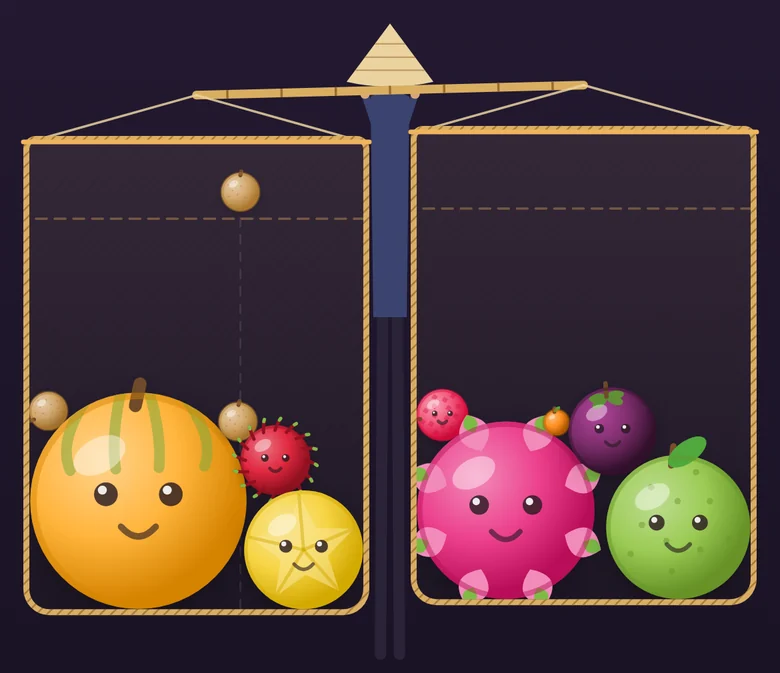
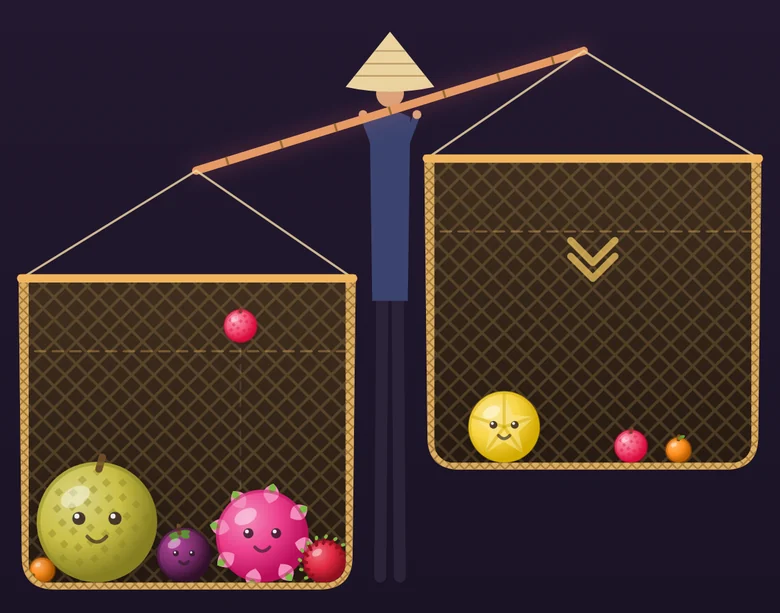
feat(site): show the 8-fruit chain and the woven-basket board
- Drop longan, guava and papaya from the chain and their images
- New board shot with the tipped pole and the visible carrier

diff --git a/src/pages/changelog.html b/src/pages/changelog.html
@@ -21,13 +21,13 @@
               <span class="pill">iPhone</span>
             </div>
             <h2>First release</h2>
-            <p>The first version of Fruit Mischief for the App Store: two baskets on a balancing pole, an 11-fruit tropical chain, and a blessing draft on top.</p>
+            <p>The first version of Fruit Mischief for the App Store: two baskets on a balancing pole, an 8-fruit tropical chain, and a blessing draft on top.</p>
 
             <h3><img src="assets/fruits/durian.png" alt="" width="28" height="28" /> The game</h3>
             <ul>
               <li>A street vendor carries two baskets on a bamboo shoulder pole. Every fruit goes into the left or the right basket, and only fruit in the same basket merge.</li>
               <li>The pole tips toward the heavier basket. Held past its limit for 2.5 seconds, the load spills and the run ends. While it tips, the pole glows red and arrows point at the lighter side.</li>
-              <li>An 11-tier chain of tropical fruit from kumquat to durian, all original art drawn in the game's code. The fruit worry when a basket fills up and grin when they merge.</li>
+              <li>An 8-tier chain of tropical fruit from kumquat to durian, all original art drawn in the game's code. The fruit worry when a basket fills up and grin when they merge.</li>
               <li>Two durians in one basket burst for a 200-point bonus and a bonus blessing pick.</li>
               <li>Combos: merges less than 0.55 seconds apart multiply your score by 1.5 per step.</li>
               <li>One-finger controls: drag over a basket to aim, release to drop.</li>
@@ -41,7 +41,7 @@
               <li>The board freezes the moment a draft opens, so nothing moves while you choose.</li>
             </ul>
 
-            <h3><img src="assets/fruits/guava.png" alt="" width="28" height="28" /> Physics</h3>
+            <h3><img src="assets/fruits/mangosteen.png" alt="" width="28" height="28" /> Physics</h3>
             <ul>
               <li>A 120 Hz solver with rolling friction, so fruit rolls and settles naturally in each basket.</li>
               <li>Fruit resting in a pile goes still and stops jittering or spinning forever.</li>

diff --git a/src/pages/index.html b/src/pages/index.html
@@ -36,7 +36,7 @@
             <ul class="hero-facts">
               <li>One-finger play</li>
               <li>No account, no tracking</li>
-              <li>2 baskets · 11 fruits · 7 blessings</li>
+              <li>2 baskets · 8 fruits · 7 blessings</li>
             </ul>
           </div>
 
@@ -45,9 +45,9 @@
               <img
                 class="hero-shot"
                 src="assets/img/board.webp"
-                alt="Fruit Mischief in play: a vendor in a conical hat carries a bamboo pole with a woven basket of tropical fruit hanging from each end."
+                alt="Fruit Mischief in play: a vendor in a conical hat carries a bamboo pole tipped toward the heavier of two woven baskets of tropical fruit; arrows point at the lighter basket."
                 width="780"
-                height="673"
+                height="613"
               />
             </div>
             <figcaption class="hero-caption">Two baskets, one pole: the side you drop on gets heavier.</figcaption>
@@ -65,7 +65,7 @@
           <ol class="steps">
             <li class="step reveal">
               <div class="step-art">
-                <img src="assets/fruits/guava.png" alt="" width="56" height="56" loading="lazy" />
+                <img src="assets/fruits/mangosteen.png" alt="" width="56" height="56" loading="lazy" />
               </div>
               <h3>Pick a basket</h3>
               <p>Drag over the left or the right basket to aim, then let go. The fruit stays in the basket it falls into.</p>
@@ -94,8 +94,8 @@
         <div class="container">
           <div class="section-head reveal">
             <span class="kicker">The fruit chain</span>
-            <h2>Kumquat to durian in 11&nbsp;tiers</h2>
-            <p>Eleven tropical fruits, all drawn for this game. Bigger fruit weigh more, so every merge shifts the pole.</p>
+            <h2>Kumquat to durian in 8&nbsp;tiers</h2>
+            <p>Eight tropical fruits, all drawn for this game. Bigger fruit weigh more, so every merge shifts the pole.</p>
           </div>
           <div class="chain-wrap reveal">
             <ol class="chain">

diff --git a/README.md b/README.md
@@ -16,7 +16,7 @@ This is the public home of **Fruit Mischief**, a balance puzzle for iPhone: two 
 | iPhone model and iOS version | iPhone 15, iOS 26.0 |
 | App version | Settings → Apps → Fruit Mischief |
 | What happened | Two lychees in the same basket touched but didn't merge |
-| What you did just before | Held Magnet, used Cleaver on a Guava |
+| What you did just before | Held Magnet, used Cleaver on a Starfruit |
 
 A screenshot or short screen recording helps a lot. [Search open issues](https://github.com/nguyenvanlamm/dropfruitesweb/issues) first. If yours is already there, add a 👍 or a comment.
 
@@ -42,7 +42,7 @@ Requires Node 20+. Nothing to install.
 | `src/pages/*.html` | Page bodies, each with a `<!--meta {json} -->` header (title, description, path) |
 | `scripts/content.mjs` | Fruit ladder, blessings, FAQ, inline icons |
 | `src/static/assets/img/board.webp` | The hero screenshot, rendered by the game |
-| `src/static/assets/fruits/` | The 11 fruit, rendered from the game's art (`lib/ui/fruit_art.dart`) |
+| `src/static/assets/fruits/` | The 8 fruit, rendered from the game's art (`lib/ui/fruit_art.dart`) |
 | `scripts/og-image.py` | Regenerates `og-image.png` from the game art (needs Pillow) |
 
 Fruit radii, scores, and blessing numbers mirror the game's engine tables. Update `scripts/content.mjs` when they change.
